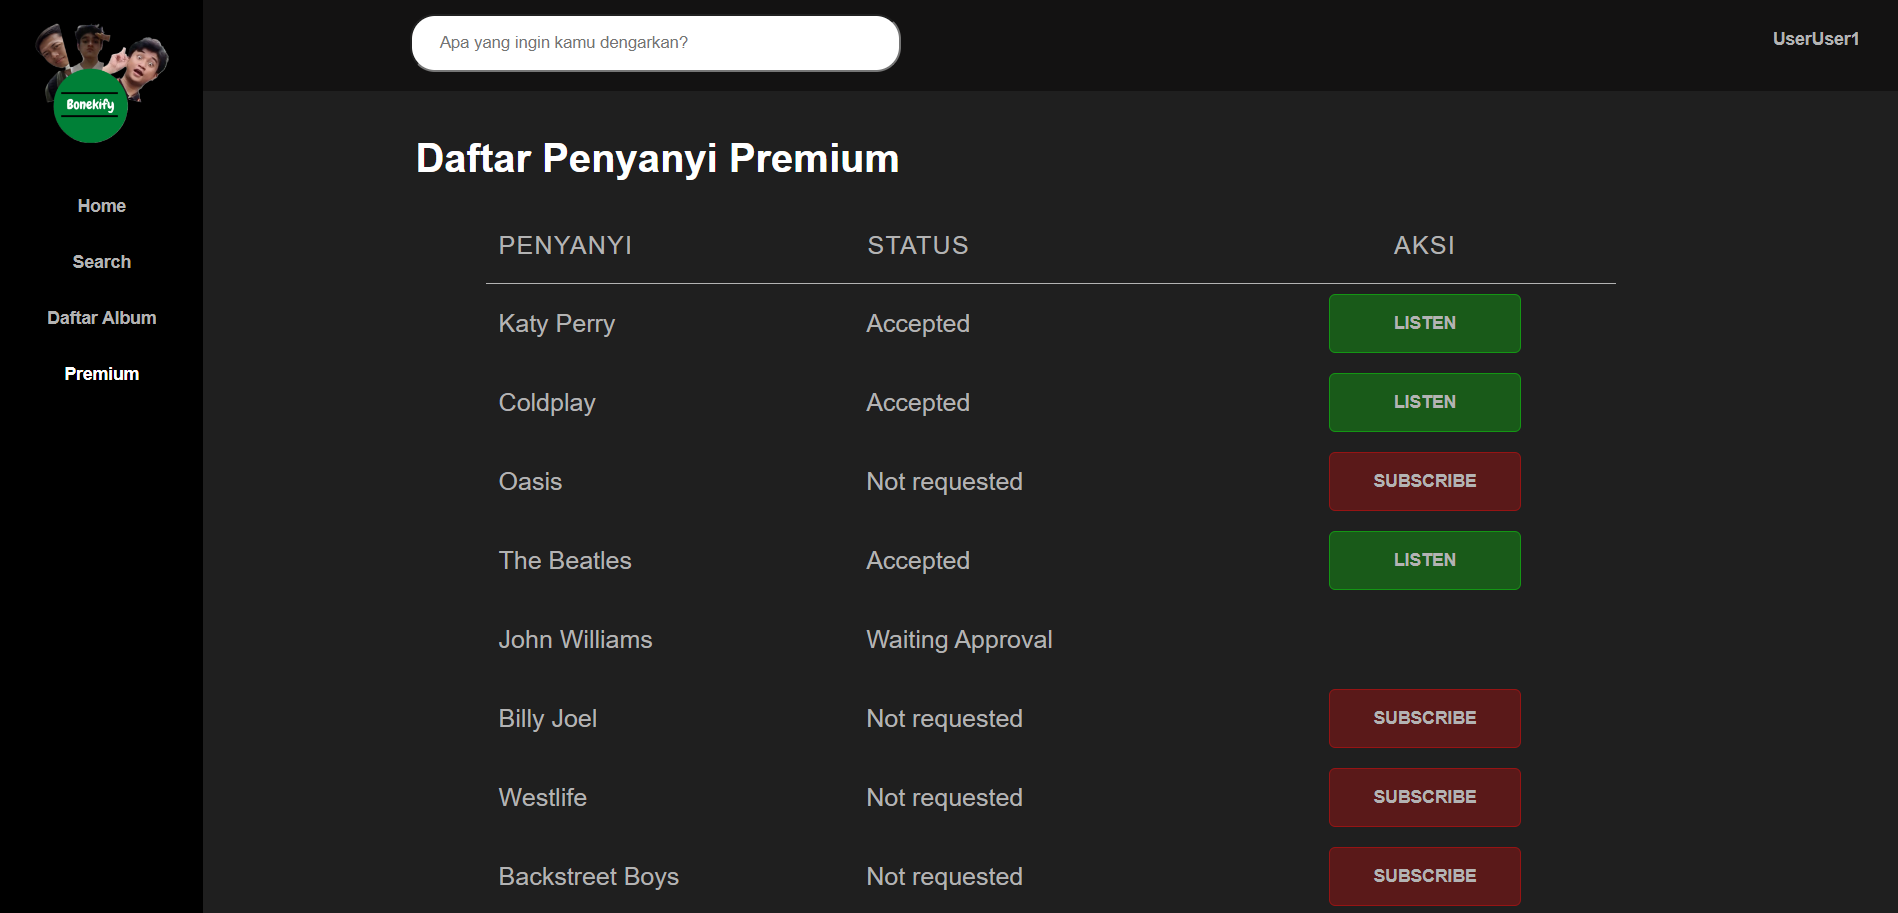
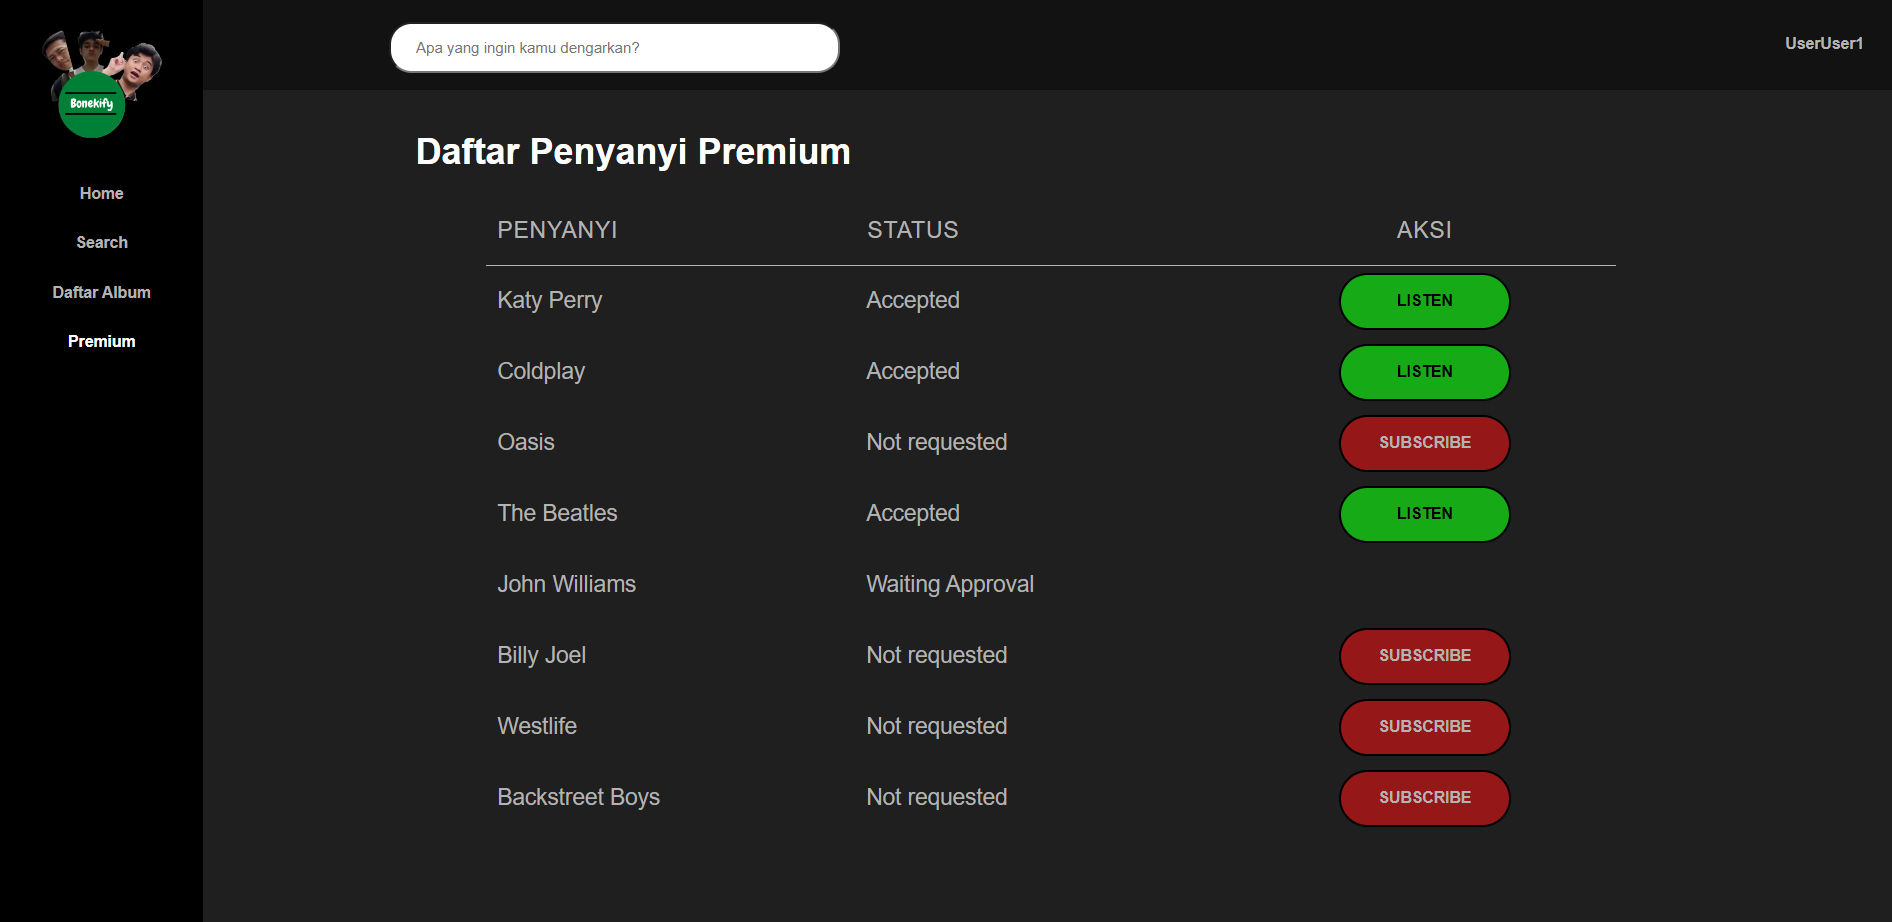
refactor: FE penyanyi premium

diff --git a/public/css/styles.css b/public/css/styles.css
@@ -990,10 +990,10 @@ label[for*=sort] {
 
 .subsbutton{
   font-size: 20px;
-  background-color: RGBA(150,20,20,0.5);
-  border: 1px solid RGB(150,20,20);
-  border-radius:5px;
-  width:10vw;
+  background-color: RGBA(200,20,20,0.7);
+  border-radius:30px;
+  width:9vw;
+  height:3vw;
 }
 
 .subsbutton:hover {
@@ -1003,11 +1003,12 @@ label[for*=sort] {
 }
 
 .listenbutton{
+  color: black !important;
   font-size: 20px;
-  background-color: RGBA(20,150,20,0.5);
-  border: 1px solid RGB(20,150,20);
-  border-radius:5px;
-  width:10vw;
+  background-color: RGBA(20,230,20,0.7);
+  border-radius:30px;
+  width:9vw;
+  height:3vw;
 }
 
 .listenbutton:hover {
